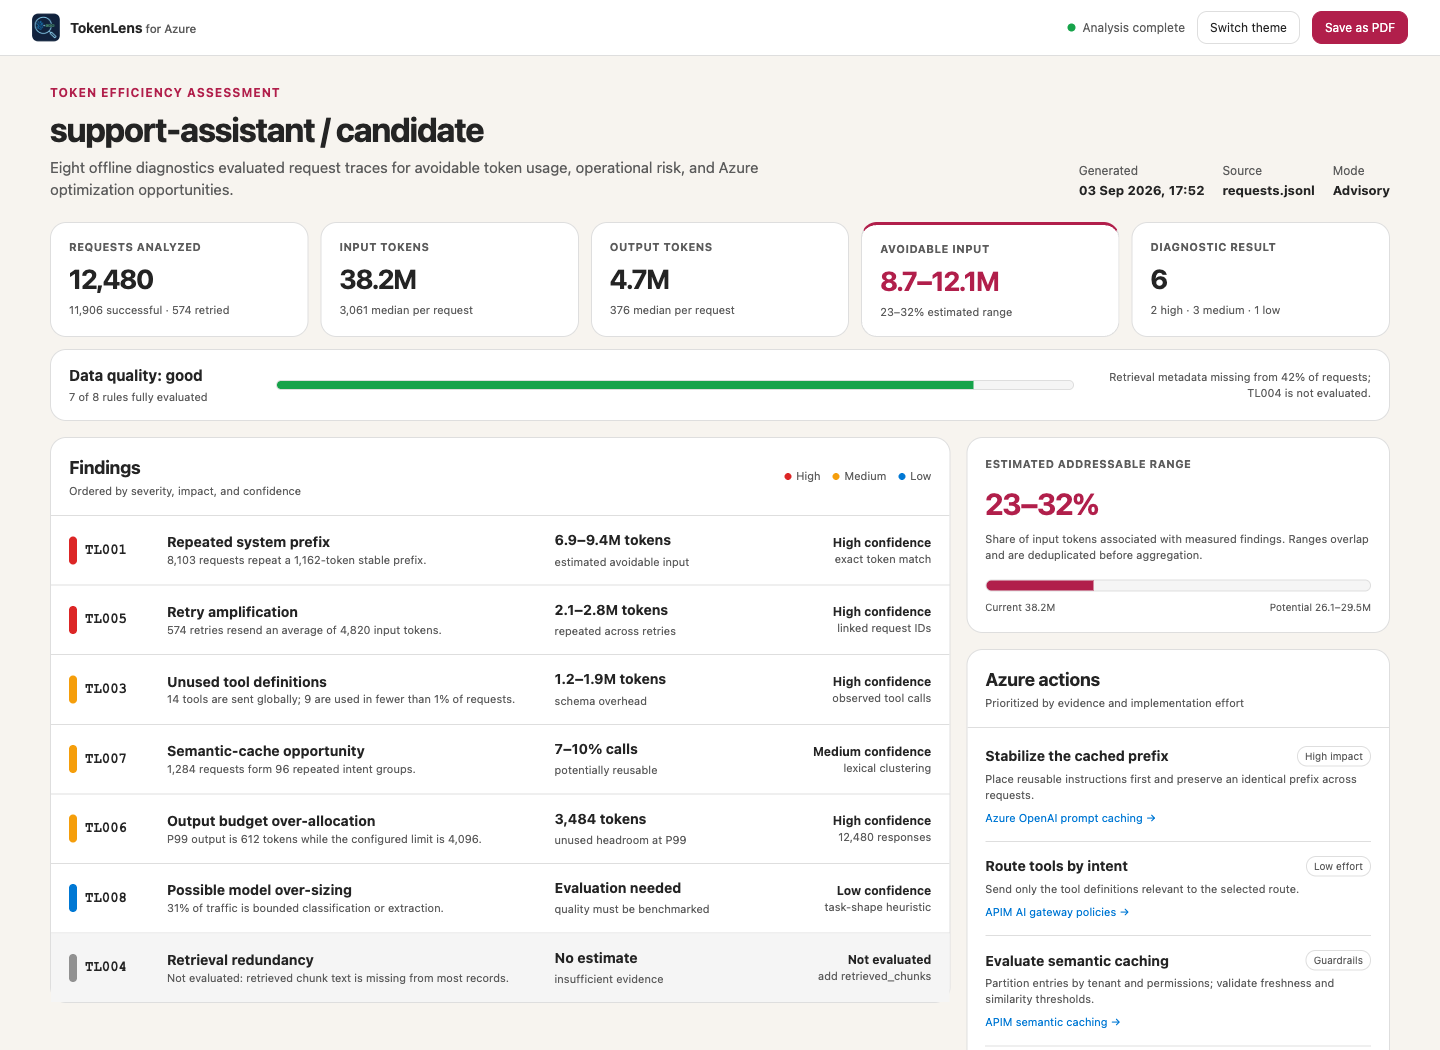
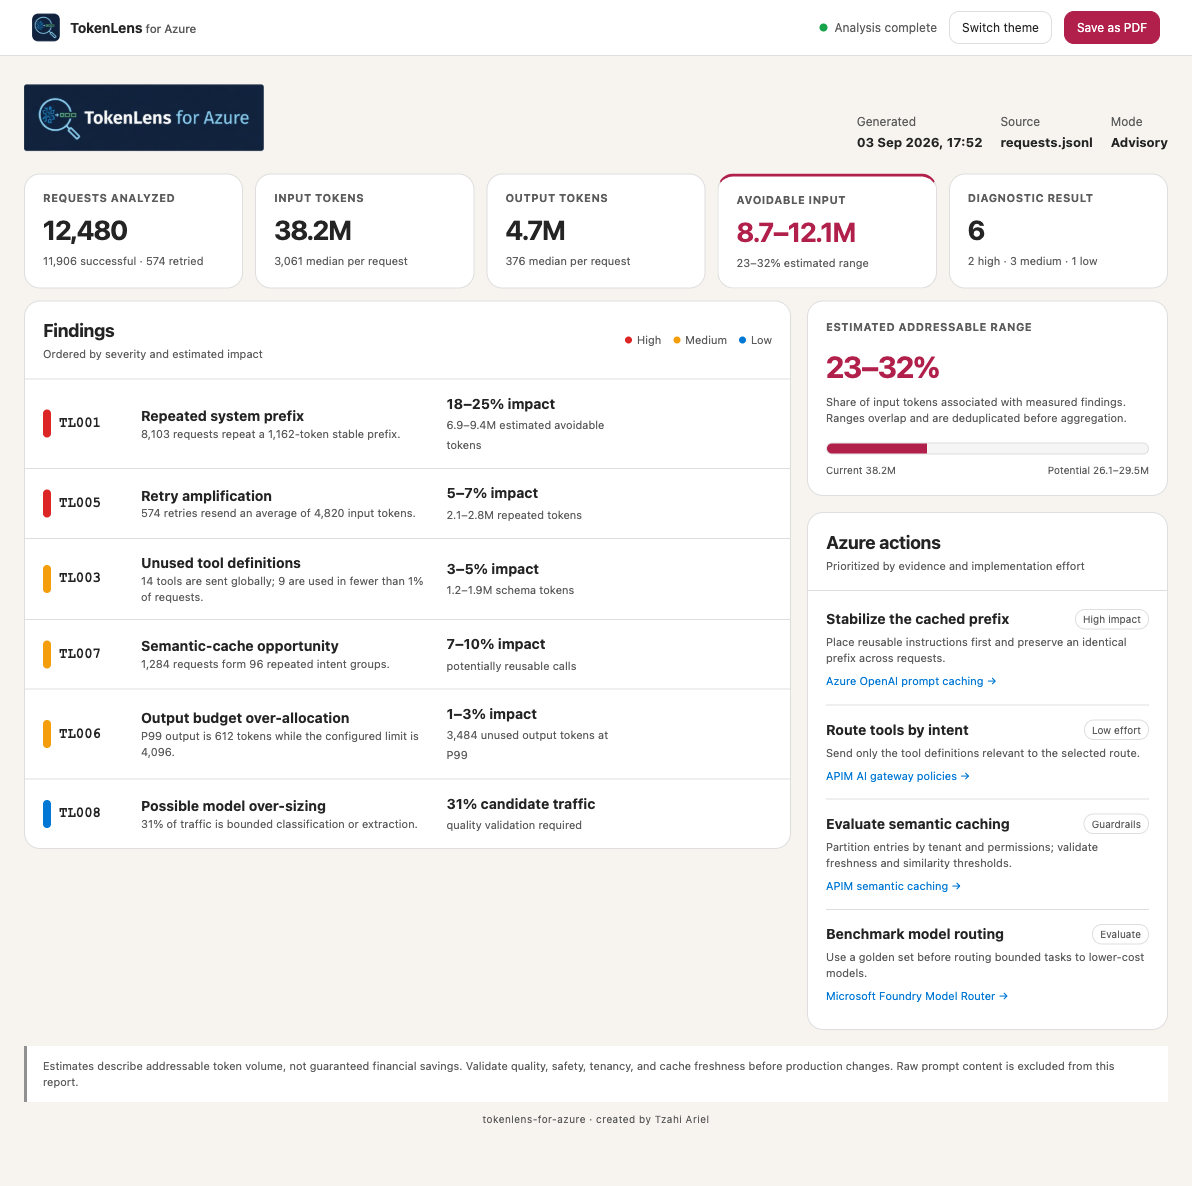
Refresh README report preview
Link directly to the enlarged updated report image and remove obsolete architecture, roadmap, and project status sections.\n\nCo-authored-by: Copilot <223556219+Copilot@users.noreply.github.com>

diff --git a/README.md b/README.md
@@ -8,7 +8,7 @@
 
 TokenLens is an offline Python CLI and GitHub Action that analyzes OpenAI-compatible JSONL traces, identifies token waste, and maps findings to practical Azure optimizations.
 
-[![Status](https://img.shields.io/badge/status-pre--alpha-7A5AF8?style=flat-square)](#project-status)
+[![Status](https://img.shields.io/badge/status-pre--alpha-7A5AF8?style=flat-square)](#what-is-tokenlens)
 [![Python](https://img.shields.io/badge/python-3.11%2B-3776AB?style=flat-square&logo=python&logoColor=white)](#prerequisites)
 [![Offline](https://img.shields.io/badge/analysis-100%25_offline-107C10?style=flat-square)](#privacy-and-security)
 [![Azure-first](https://img.shields.io/badge/Azure-first-0078D4?style=flat-square&logo=microsoftazure&logoColor=white)](#azure-first-portable-core)
@@ -87,16 +87,16 @@ Every finding follows the same explainable contract:
 }
 ```
 
-Overlapping opportunities are bounded before the aggregate range is reported. Findings include an estimated impact percentage relative to the analyzed request volume.
+Overlapping opportunities are bounded before the aggregate range is reported. Findings include an estimated impact percentage relative to the analyzed token or request volume.
 
 ## Example output
 
-<a href="docs/tokenlens-report-demo.html">
+<a href="docs/tokenlens-report-preview.png">
   <img src="docs/tokenlens-report-preview.png" alt="TokenLens for Azure sample report showing metrics, impact percentages, findings, savings ranges, and Azure actions">
 </a>
 
 <p align="center">
-  <em>Sample data · Click the image to open the complete self-contained report mock-up.</em>
+  <em>Sample data · Click the image to open the enlarged preview.</em>
 </p>
 
 The report puts the most actionable information first: total trace volume, addressable token range, impact-ranked findings, and prioritized Azure actions.
@@ -326,46 +326,6 @@ ci:
 - Public tests use synthetic, privacy-safe traces.
 
 TokenLens is safe to bring to the data—not another service that asks developers to upload it.
-
-## Architecture
-
-```text
-src/tokenlens/
-├── cli.py
-├── config.py
-├── ingest/
-├── models/
-├── rules/
-├── estimation/
-├── recommendations/
-└── reports/
-```
-
-The core is a streaming JSONL importer, normalized trace model, plugin-style rule engine, impact estimator, recommendation pack, and multiple report renderers.
-
-## Roadmap
-
-### v0.1
-
-- [x] Offline JSONL importer
-- [x] Eight diagnostic contracts
-- [x] Terminal, JSON, SARIF, and HTML report formats
-- [x] Advisory baseline comparison
-- [x] Azure remediation pack
-- [x] GitHub Action scaffold
-
-### Later
-
-- [ ] APIM and Application Insights import adapters
-- [ ] Provider recommendation packs
-- [ ] User-supplied pricing catalogs
-- [ ] Custom diagnostic plugins
-- [ ] Trend reports across releases
-- [ ] Optional Azure OpenAI-assisted analysis, disabled by default
-
-## Project status
-
-TokenLens for Azure is an early community project and is **not an official Microsoft product**. APIs, rule thresholds, and package names may change before v0.1.
 
 ## License
 
